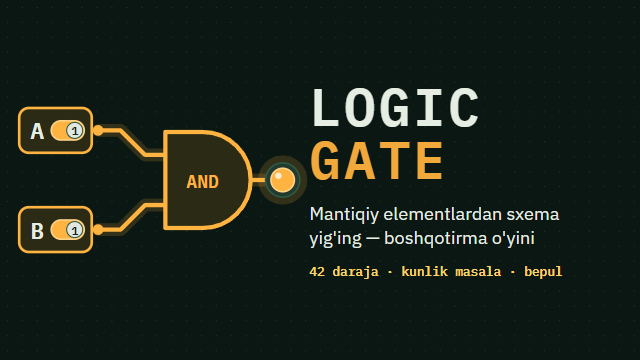
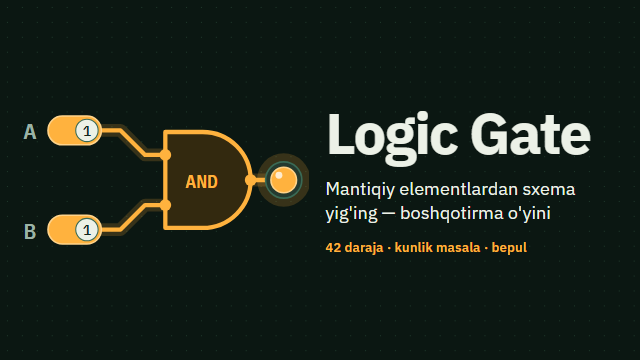
Havola rasmi va qo'llanmalar yangi ko'rinishda (2.17.1)
O'yin 2.16.0 da yangilangan, lekin yangi o'yinchi undan oldin
ko'radigan ikki narsa eski qolgan edi.

- Havola rasmi (scripts/og.html -> public/og.png): oralari ochilgan
  ikki rangli mono «LOGIC GATE» o'rniga o'yindagi kabi oddiy qalin
  «Logic Gate», chapda bosh sahifadagi sxemaning o'zi (qutisiz
  tumblerlar, AND, chiroq). og.png?v=4 — Telegram rasmni manzil
  bo'yicha keshlaydi.
- deploy/telegram/app-640x360.png ham shu manbadan qayta chiqarildi;
  uni BotFather'ga qo'lda yuklash kerak.
- Qo'llanma sahifalari (scripts/pages.mjs dagi CSS): bo'limlar sirt
  tusi bilan ajraladi (--panel, --ctl; --edge qorong'ida shaffof,
  yorug'da ingichka chiziq), urg'u rangi bitta, eslatma chap
  chiziqsiz, sarlavha yirikroq. Jadval va kiritish maydonlarida
  chiziq qoldi; shrift tizimniki.

Favicon, PWA belgilari va sertifikat o'zgarmadi.

diff --git a/web/scripts/og.html b/web/scripts/og.html
@@ -1,7 +1,8 @@
 <!doctype html>
 <!--
-  Havola rasmi manbasi — o'yinning Plata mavzusida: tumbler kirishlar, 45° mis yo'llar, AND elementi
-  va yonib turgan chiroq. Shriftlar node_modules dagi IBM Plex (o'yindagi bilan bir xil).
+  Havola rasmi manbasi — o'yinning Plata mavzusida, bosh sahifadagi sxemaning o'zi: ikki tumbler (ikkalasi 1),
+  45° burilishli yo'llar, AND elementi va yonib turgan chiroq; yonida nom — o'yindagi kabi oddiy qalin yozuv
+  (2.16.0 gacha: oralari ochilgan ikki rangli mono "LOGIC GATE"). Shriftlar node_modules dagi IBM Plex.
   public/og.png (1200×630):
     chrome --headless=new --hide-scrollbars --force-device-scale-factor=1 --window-size=1200,630 --screenshot=og.png og.html
   deploy/telegram/app-640x360.png (BotFather, 16:9):
@@ -16,33 +17,32 @@
   @font-face { font-family: 'Plex Mono'; font-weight: 600; src: url(../node_modules/@fontsource/ibm-plex-mono/files/ibm-plex-mono-latin-600-normal.woff2) format('woff2'); }
   @font-face { font-family: 'Plex Sans'; font-weight: 400; src: url(../node_modules/@fontsource/ibm-plex-sans/files/ibm-plex-sans-latin-400-normal.woff2) format('woff2'); }
   @font-face { font-family: 'Plex Sans'; font-weight: 600; src: url(../node_modules/@fontsource/ibm-plex-sans/files/ibm-plex-sans-latin-600-normal.woff2) format('woff2'); }
+  @font-face { font-family: 'Plex Sans'; font-weight: 700; src: url(../node_modules/@fontsource/ibm-plex-sans/files/ibm-plex-sans-latin-700-normal.woff2) format('woff2'); }
   html, body { margin: 0; width: 1200px; height: var(--h, 630px); overflow: hidden; }
   body {
     background: radial-gradient(circle at 14px 14px, #1f3a2c 1.6px, transparent 1.8px) 0 0 / 28px 28px, #0b1712;
     font-family: 'Plex Sans', system-ui, sans-serif;
-    color: #e6eee4;
+    color: #ecf1e7;
     display: flex;
     align-items: center;
   }
   .art { width: 580px; height: 630px; flex: none; }
-  .text { padding-right: 60px; }
-  h1 { margin: 0; font: 600 100px/1 'Plex Mono', monospace; letter-spacing: 0.05em; }
-  h1 span { display: block; color: #f2a93b; }
+  .text { padding: 0 52px 0 30px; }
+  h1 { margin: 0; font: 700 108px/1 'Plex Sans', sans-serif; letter-spacing: -0.03em; white-space: nowrap; }
   .tag { margin: 30px 0 0; font-size: 34px; line-height: 1.3; }
-  .meta { margin-top: 26px; font: 600 24px 'Plex Mono', monospace; color: #ffd36b; }
-  .glow { fill: none; stroke: rgba(255, 179, 64, 0.16); stroke-width: 24; stroke-linecap: round; stroke-linejoin: round; }
-  .trace { fill: none; stroke: #ffb340; stroke-width: 8; stroke-linecap: round; stroke-linejoin: round; }
-  .pin { fill: #2b2a14; stroke: #ffb340; stroke-width: 5; }
-  .lbl { font: 600 44px 'Plex Mono', monospace; fill: #e6eee4; text-anchor: middle; dominant-baseline: central; }
-  .track { fill: #ffb340; stroke: #ffd38a; stroke-width: 3; }
-  .knob { fill: #dfe7de; stroke: #2d5a47; stroke-width: 2; }
-  .knob-val { font: 600 22px 'Plex Mono', monospace; fill: #13271e; text-anchor: middle; dominant-baseline: central; }
-  .port { fill: #ffb340; }
-  .gate { fill: #2b2a14; stroke: #ffb340; stroke-width: 8; stroke-linejoin: round; }
-  .gate-lbl { font: 600 34px 'Plex Mono', monospace; fill: #ffb340; text-anchor: middle; dominant-baseline: central; }
-  .halo { fill: rgba(255, 179, 64, 0.16); }
-  .bezel { fill: #253a2f; stroke: #2d5a47; stroke-width: 3; }
-  .lamp { fill: #ffb340; stroke: #ffd38a; stroke-width: 3; }
+  .meta { margin-top: 26px; font-size: 25px; font-weight: 600; color: #ffb23e; }
+  .glow { fill: none; stroke: rgba(255, 178, 62, 0.18); stroke-width: 24; stroke-linecap: round; stroke-linejoin: round; }
+  .trace { fill: none; stroke: #ffb23e; stroke-width: 8; stroke-linecap: round; stroke-linejoin: round; }
+  .lbl { font: 600 42px 'Plex Mono', monospace; fill: #9cb2a5; text-anchor: middle; dominant-baseline: central; }
+  .track { fill: #ffb23e; stroke: #ffd38a; stroke-width: 3; }
+  .knob { fill: #ecf1e7; stroke: #3a6a55; stroke-width: 2; }
+  .knob-val { font: 600 26px 'Plex Mono', monospace; fill: #13271e; text-anchor: middle; dominant-baseline: central; }
+  .port { fill: #ffb23e; }
+  .gate { fill: #33290f; stroke: #ffb23e; stroke-width: 8; stroke-linejoin: round; }
+  .gate-lbl { font: 600 34px 'Plex Mono', monospace; fill: #ffb23e; text-anchor: middle; dominant-baseline: central; }
+  .halo { fill: rgba(255, 178, 62, 0.18); }
+  .bezel { fill: #253a2f; stroke: #3a6a55; stroke-width: 3; }
+  .lamp { fill: #ffb23e; stroke: #ffd38a; stroke-width: 3; }
   .shine { fill: rgba(255, 255, 255, 0.75); }
 </style>
 <script>
@@ -54,34 +54,33 @@
 <body>
   <svg class="art" viewBox="0 0 580 630">
     <!-- yo'llar: gorizontal → 45° → gorizontal, xuddi o'yin maydonidagidek -->
-    <path class="glow" d="M184,222 H226 L272,268 H310" />
-    <path class="glow" d="M184,408 H226 L272,362 H310" />
+    <path class="glow" d="M190,222 H226 L272,268 H310" />
+    <path class="glow" d="M190,408 H226 L272,362 H310" />
     <path class="glow" d="M470,315 H500" />
-    <path class="trace" d="M184,222 H226 L272,268 H310" />
-    <path class="trace" d="M184,408 H226 L272,362 H310" />
+    <path class="trace" d="M190,222 H226 L272,268 H310" />
+    <path class="trace" d="M190,408 H226 L272,362 H310" />
     <path class="trace" d="M470,315 H500" />
-    <!-- kirishlar: tumbler, ikkalasi ham 1 -->
-    <rect class="pin" x="36" y="180" width="136" height="84" rx="18" />
-    <text class="lbl" x="70" y="222">A</text>
-    <rect class="track" x="96" y="204" width="62" height="36" rx="18" />
-    <circle class="knob" cx="140" cy="222" r="15" /><text class="knob-val" x="140" y="223">1</text>
-    <rect class="pin" x="36" y="366" width="136" height="84" rx="18" />
-    <text class="lbl" x="70" y="408">B</text>
-    <rect class="track" x="96" y="390" width="62" height="36" rx="18" />
-    <circle class="knob" cx="140" cy="408" r="15" /><text class="knob-val" x="140" y="409">1</text>
-    <circle class="port" cx="184" cy="222" r="10" />
-    <circle class="port" cx="184" cy="408" r="10" />
-    <!-- AND elementi (yoniq) -->
+    <!-- kirishlar: tumbler (bosh sahifadagi kabi qutisiz), ikkalasi ham 1 -->
+    <text class="lbl" x="56" y="223">A</text>
+    <rect class="track" x="90" y="195" width="100" height="54" rx="27" />
+    <circle class="knob" cx="163" cy="222" r="21" /><text class="knob-val" x="163" y="223">1</text>
+    <text class="lbl" x="56" y="409">B</text>
+    <rect class="track" x="90" y="381" width="100" height="54" rx="27" />
+    <circle class="knob" cx="163" cy="408" r="21" /><text class="knob-val" x="163" y="409">1</text>
+    <!-- AND elementi (yoniq) va kontaktlar -->
     <path class="gate" d="M310,225 H380 A90,90 0 0 1 380,405 H310 Z" />
-    <text class="gate-lbl" x="380" y="316">AND</text>
+    <text class="gate-lbl" x="378" y="316">AND</text>
+    <circle class="port" cx="310" cy="268" r="11" />
+    <circle class="port" cx="310" cy="362" r="11" />
+    <circle class="port" cx="470" cy="315" r="11" />
     <!-- chiqish: chiroq -->
-    <circle class="halo" cx="530" cy="315" r="46" />
-    <circle class="bezel" cx="530" cy="315" r="32" />
-    <circle class="lamp" cx="530" cy="315" r="22" />
-    <circle class="shine" cx="522" cy="307" r="6" />
+    <circle class="halo" cx="532" cy="315" r="50" />
+    <circle class="bezel" cx="532" cy="315" r="34" />
+    <circle class="lamp" cx="532" cy="315" r="24" />
+    <circle class="shine" cx="523" cy="306" r="6.5" />
   </svg>
   <div class="text">
-    <h1>LOGIC<span>GATE</span></h1>
+    <h1>Logic Gate</h1>
     <p class="tag">Mantiqiy elementlardan sxema yig'ing — boshqotirma o'yini</p>
     <div class="meta">42 daraja · kunlik masala · bepul</div>
   </div>

diff --git a/web/index.html b/web/index.html
@@ -23,7 +23,7 @@
     <meta property="og:description" content="NOT, AND, OR, XOR elementlaridan sxema yig'ib, 42 ta boshqotirmani yeching. Brauzerda, telefon va kompyuterda bepul." />
     <meta property="og:url" content="%VITE_SITE_URL%/" />
     <!-- Telegram rasmni manzili bo'yicha keshlaydi: og.png o'zgarsa, v ni oshiring. -->
-    <meta property="og:image" content="%VITE_SITE_URL%/og.png?v=3" />
+    <meta property="og:image" content="%VITE_SITE_URL%/og.png?v=4" />
     <meta property="og:image:width" content="1200" />
     <meta property="og:image:height" content="630" />
     <meta property="og:locale" content="uz_UZ" />
@@ -37,7 +37,7 @@
         "name": "Logic Gate",
         "alternateName": "Logic Gate — mantiqiy sxemalar o'yini",
         "url": "%VITE_SITE_URL%/",
-        "image": "%VITE_SITE_URL%/og.png?v=3",
+        "image": "%VITE_SITE_URL%/og.png?v=4",
         "description": "Mantiqiy elementlardan (NOT, AND, OR, XOR, NAND, D-trigger) sxema yig'ib, boshqotirmalarni yechadigan o'quv o'yini: 42 ta daraja, kunlik boshqotirma, qum quti.",
         "applicationCategory": "GameApplication",
         "genre": ["Puzzle", "Educational"],

diff --git a/web/src/changelog.ts b/web/src/changelog.ts
@@ -18,6 +18,16 @@ export interface Release {
 
 export const CHANGELOG: Release[] = [
   {
+    version: '2.17.1',
+    date: '2026-11-11',
+    uz: [
+      "Qo'llanma sahifalari (mantiqiy elementlar, sanoq sistemalari, Bul algebrasi) va Telegram'dagi havola rasmi o'yinning yangi ko'rinishiga o'tdi.",
+    ],
+    ru: [
+      'Справочные страницы (логические элементы, системы счисления, алгебра логики) и картинка ссылки в Telegram переведены на новый вид игры.',
+    ],
+  },
+  {
     version: '2.17.0',
     date: '2026-11-11',
     uz: [

diff --git a/DECISIONS.md b/DECISIONS.md
@@ -51,6 +51,7 @@ Ishlab chiqish davomida qabul qilingan qarorlar. Yangilari pastga qo'shiladi.
 - **Dizayn: bitta uslub, ikki rang mavzusi** (2026-11-09): uchta to'liq uslub (plata, daftar, laboratoriya pulti) o'rniga — bitta "ustaxona" tuzilmasi va ikki rang mavzusi (Plata, Daftar) + Avto. Uchta to'liq mavzu har yangi imkoniyatni uch marta chizishni talab qilardi va o'yinning tanib olinadigan qiyofasini yo'qotardi. Daftar — sinfda proyektor uchun haqiqiy foyda. Neon yashil nur, gradient va emoji olib tashlandi ("AI shabloni" belgilari); signal 1 — sariq chiroq, asosiy tugma — sariq (Plata) yoki ko'k siyoh (Daftar). Shrift — IBM Plex (muhandislik ruhida, o'zbek ʻ va kirill bilan). Sukut bo'yicha Plata: Daftar maydoni 2-bosqichda sayqallanadi.
 - **Dizayn: hoshiyalardan sirtlarga** (2026-11-11, 2.16.0): uslub va mavzular o'sha, lekin ijro qayta ko'rildi — o'yin hali ham "tayyor shablon"ga o'xshardi. Sabablari aniq edi: har bir blok bir xil hoshiyali quti (quti ichida quti), bosh sahifada bir xil og'irlikdagi kartalar va bitta ekranda besh xil urg'u rangi (sariq, mis, oltin, ko'k, yashil), oralari ochilgan mono bosh harfli yozuvlar, deyarli bir xil o'lchamdagi shrift. **Sirtlar:** bloklar fon tusi bilan ajraladi (`--bg` → `--bg2` → `--panel` → `--raise`); to'liq hoshiya `--edge` orqali — Plata'da shaffof, Daftar'da qog'ozdagi ingichka chiziq (och fonda oq karta hoshiyasiz yo'qolib ketadi, daftarda esa chizilgan quti o'rinli). `--line` faqat ajratuvchi chiziqlar va kiritish maydonlari uchun. Rangli chap chiziqli bloklar (maslahat, eslatma) — oddiy tusli fon. **Bitta urg'u:** Plata'da `--accent`, `--on` va yulduzlar — bitta sariq; mis faqat yo'llar va kontaktlarda; Telegram ko'ki faqat belgida (tugma hoshiyasida emas); urg'uli fon — `--accent-soft` (shaffof ko'k Daftar'da kulrang chiqardi). **Shrift:** sarlavhalar yirik va zich (bosh sahifa 28/38 px), mono faqat ma'lumotda (raqam, formula, kod); bo'lim yozuvlari bosh harfsiz. **Bosh sahifa:** logotip o'rnida ishlaydigan sxema (`components/HeroGate.tsx`: ikki tumbler, AND, chiroq) — maydondagi elementlarning o'zi va o'sha klasslar, shuning uchun alohida uslub deyarli yo'q va ikkala mavzuda maydon bilan bir xil; holati saqlanmaydi. Navbatdagi daraja — katta sarlavha va bitta tugma; qolganlari (kunlik masala, arxiv, taklif, Telegram) — bitta ro'yxat sirtidagi qatorlar. 900 px dan keng ekranda ikki ustun (avval telefon ustuni bo'sh ekran o'rtasida turardi). **Darajalar:** plitkada nom — asosiy matn, raqam — kichik belgi; qulflangan daraja — uzuq chiziqli bo'sh o'rin. **Maydon:** element chiziqlari 2,2 → 2,6, yozuvi 10 → 11 px. Belgi tugmalari sukut bo'yicha fonsiz. Aylantirish chizig'i mavzu rangida. **Hajm:** o'zgarishlar bosh yuklamani 100,7 KB ga chiqardi (byudjet 100) — `custom.ts` dan lokal natijalar `custom-store.ts` ga ajratildi: yutuqlar va sinxronlash ochilishda faqat shuni oladi, masalani kodlash/o'qish Qum quti va do'st masalasi bilan birga yuklanadi → 98,1 KB. Favicon, PWA belgilari, og-rasm va sertifikat o'zgarmadi (o'sha AND belgisi).
 - **Ikki yangi mavzu: Haqiqiy plata va Chizma** (2026-11-11, 2.17.0): 9-noyabrdagi "ikki mavzu yetarli" qarori egasining xohishi bilan kengaytirildi — to'rtta mavzu (Plata, Haqiqiy plata, Daftar, Chizma) va Avto (avvalgidek Daftar yoki Plata). O'sha qarorning sababi (har yangi imkoniyatni har mavzuda chizish) o'z kuchida, shuning uchun farq ataylab tor: ranglar va maydondagi ikkita shakl, ekranlar tuzilmasi hamma mavzuda bir xil. **Haqiqiy plata:** lak ostidagi och yashil yo'llar, oltin kontaktlar, kirish/chiqish — qora korpus; maydondagi element — oyoqchali qora mikrosxema, ustida tur nomi va shu elementli haqiqiy 74HC markasi (`GateShape` `chip`, `CHIP_CODE`). Korpus to'rtburchak bo'lgani uchun element shakli yo'qoladi — palitra, tanishtiruv va tavsiflarda belgi (ANSI) qoldi: o'quvchi belgini tanlaydi, maydonga mikrosxema tushadi. Yoniq yo'l haqiqatda ko'rinmaydi, lekin o'yinda signal 1 ko'rinishi shart — sariq qoladi. Gradient va soya yo'q (telefon tezligi): tekis ranglar, chiroqda mavjud yorug'lik va yaltiroq nuqta. **Chizma:** oq qog'oz, ingichka qora chiziq, simlar to'g'ri burchakli (`routeD` da burchak kesigi 0), chiroq — doira ichida xoch (`.lamp-x`), maydon atrofida varaq ramkasi; yoniq sim — qizil qalam, xato esa to'qroq qizil va har doim ✗ yoki miltillash bilan birga. **Texnika:** mavzu bloklari atribut bo'yicha (`[data-theme='…']`, Plata — `:root` bilan birga) — Sozlamalardagi mavzu namunasi ranglarni `<span data-theme>` orqali o'sha bloklardan oladi, alohida ranglar ro'yxati yo'q. Yangi o'zgaruvchilar: `--board` (maydon foni), `--pin`, `--pin-stroke` (kirish/chiqish qutisi). Shaklga ta'sir qiladigan ikki joy (`chip`, burchak kesigi) `activeTheme` ni o'qiydi; qolgani CSS. Sozlamalarda beshta variant bir qatorga sig'madi — tanlagich namunali plitkalar. **Hajm:** ikki mavzu bosh yuklamani 99,9 KB ga chiqardi (byudjet 100). Sozlamalar ekrani `lazy()` ga o'tdi, reyting, arxiv, yutuqlar, Qum quti va Sozlamalar uslublari o'z ekrani yonidagi faylga (`screens/*.css`, ekran bilan birga yuklanadi) ko'chirildi → 97,8 KB. `theme.test.ts` endi har mavzu barcha o'zgaruvchilarni belgilashini va barcha uslub fayllarida qattiq yozilgan rang yo'qligini tekshiradi.
+- **Havola rasmi va qo'llanmalar ham yangi ko'rinishda** (2026-11-11, 2.17.1): o'yin 2.16.0 da yangilandi, lekin yangi o'yinchi undan oldin ko'radigan ikki narsa eski qolgan edi. **Havola rasmi** (`scripts/og.html` → `public/og.png`): oralari ochilgan ikki rangli mono «LOGIC GATE» o'rniga o'yindagi kabi oddiy qalin «Logic Gate», chapda bosh sahifadagi sxemaning o'zi (qutisiz tumblerlar, AND, chiroq); `og.png?v=4` (Telegram rasmni manzil bo'yicha keshlaydi). Shu manbadan BotFather uchun `deploy/telegram/app-640x360.png` ham qayta chiqarildi — uni BotFather'ga qo'lda yuklash kerak. **Qo'llanma sahifalari** (`scripts/pages.mjs` dagi CSS): o'yindagi qoida — bloklar sirt tusi bilan ajraladi (`--panel` — bo'lim, `--ctl` — tugma va katakchalar; `--edge` qorong'ida shaffof, yorug'da ingichka chiziq), urg'u rangi bitta, rangli chap chiziqli eslatma — oddiy tusli fon, sarlavha yirikroq; jadval va kiritish maydonlarida chiziq qoldi. Shrift tizimniki (o'zgarmadi: sahifalar tez ochilsin). Favicon, PWA belgilari va sertifikat o'zgarmadi.
 - **O'qituvchilar sahifasi** (2026-11-09): o'yinchi jalb qilishning eng kuchli yo'li — o'qituvchi (bittasi butun sinfni olib keladi), o'qituvchilar esa "dars ishlanma" ni qidiradi. Shuning uchun reklama matni emas, darsda darhol ishlatsa bo'ladigan tayyor reja: vaqt bo'yicha bosqichlar, aniq darajalar, uy vazifasi (sinf vazifasi sifatida) va baholash mezoni. Darslar yechimni aytmaydi. Darajalar id bilan — tartib yoki nom o'zgarsa sahifa o'zi yangilanadi.
 - **Tartibga keltirish** (2026-11-09): simlarni marshrutlash o'rniga elementlarni joylash — o'yinda simlar baribir plata yo'li bo'lib chiziladi, chalkashlikning asosiy sababi esa tartibsiz joylar. Oddiy ustun (chuqurlik) + barisentr usuli: tez, oldindan aytib bo'ladigan, o'yinchi natijani tushunadi. Avtomatik emas — faqat tugma bilan: o'yinchining o'z joylashini buzmaslik uchun.
 - **Uchlar va pinlar to'rda** (2026-11-09): sim o'rtasidagi mayda (2–4 birlik) pog'ona chizishda emas, koordinatalarda edi — element 12 lik to'rga joylanadi, lekin uning kirish uchlari (14/34), D-trigger uchlari (14) va daraja pinlari (`PIN_TOP` 40, qadam 84 → yarim qadam 42) to'rdan siljigan edi, shuning uchun element chiqishini chiqish pini yoki keyingi element kirishi bilan bir chiziqqa qo'yib bo'lmasdi («Tartibga keltirish» ham `snap` dan keyin 2 birlik adashardi). Tuzatish — hamma uchlar va pinlar to'rga karrali: kirish uchlari 12/36, D-trigger 12, `PIN_TOP` 36, qadam 96. `wireRoute` da kichik farqni yashirish (pog'onani pin yoniga surish) olinmadi: u alomatni yashirardi, joylash esa baribir aniq bo'lmasdi. Saqlangan qoralamalar buzilmaydi (simlar port nomi bilan, server koordinatani faqat chegarasi bo'yicha tekshiradi); pinlar bir necha birlikka suriladi — «Tartibga keltirish» ularni tekislaydi. Invariant testda: har bir uch va pin `GRID` ga karrali. Shu bilan «Tartibga keltirish»da chiqish pin'iga ulangan element manbalari o'rtachasiga emas, aynan pin ro'parasiga qo'yiladi: aks holda o'rtacha `snap` dan keyin 12 birlikka adashib, chiqish simida qiyalik qolardi; manbalardan keladigan simlar baribir qiya, chiqishga boradigani esa eng uzun va ko'zga tashlanadigani.

diff --git a/CHANGELOG.md b/CHANGELOG.md
@@ -5,6 +5,10 @@ O'yinchilar uchun sodda tilda. O'yinning o'zida: Sozlamalar → «Yangiliklar».
 
 Versiya raqami: yangi imkoniyat — o'rta raqam (2.1.0), tuzatish — oxirgi (2.0.1), katta o'zgarish — birinchi (3.0.0).
 
+## 2.17.1 — 2026-11-11
+
+- Qo'llanma sahifalari (mantiqiy elementlar, sanoq sistemalari, Bul algebrasi) va Telegram'dagi havola rasmi o'yinning yangi ko'rinishiga o'tdi.
+
 ## 2.17.0 — 2026-11-11
 
 - Ikki yangi mavzu: «Haqiqiy plata» — yashil plata, qora mikrosxemalar, oltin kontaktlar va svetodiod; «Chizma» — muhandislik chizmasi: oq qog'oz, qora chiziq, yoniq sim qizil.
